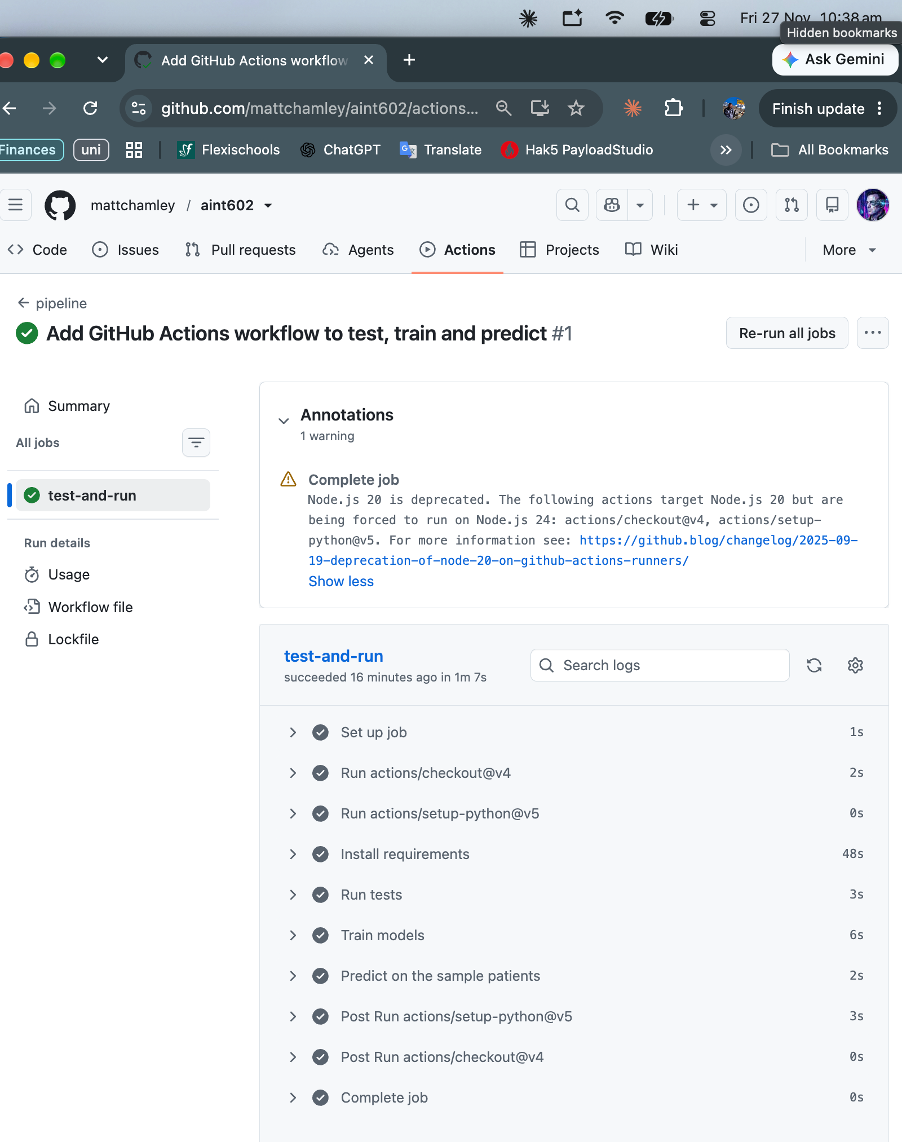
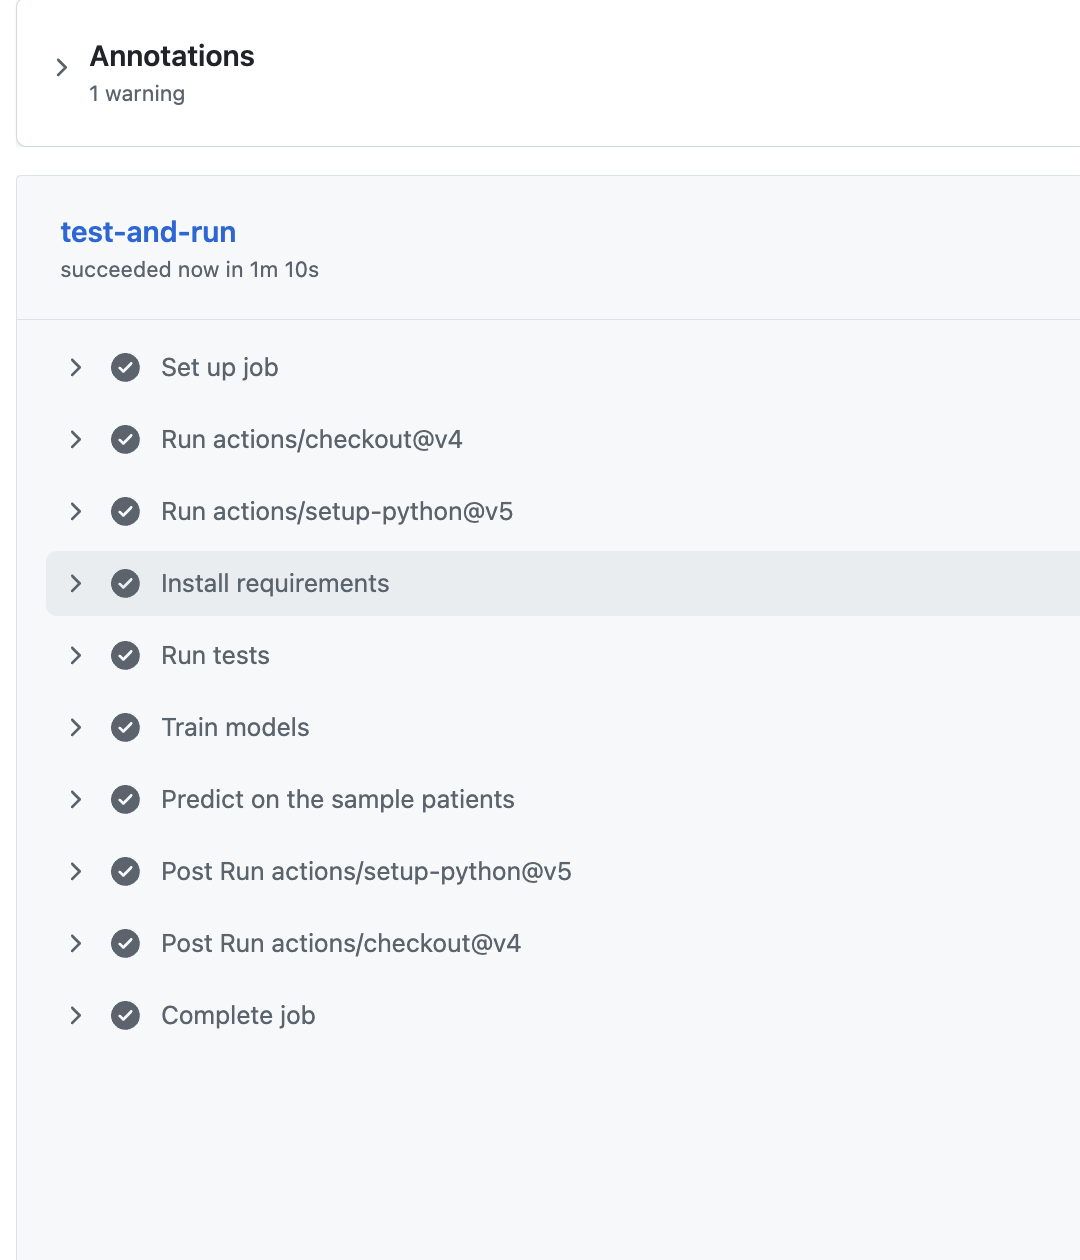
Replace evidence screenshots witht the final run and fix the index

diff --git a/evidence/README.md b/evidence/README.md
@@ -1,16 +1,22 @@
-# Evidence
+# Evidence Screen Shots
 
 Screenshots that back up the report. File names match the appendix numbers.
 
 | File | What it shows |
 |---|---|
 | 1a_ingest_check.png | Data loads: 10,000 rows, 14 columns, data hash |
-| 1b_validation_output.png | Validation checks and rows dropped |
-| 2_pytest_run.png | Tests passing |
-| 3_training_output.png | Baseline and candidate model results |
-| 4_mlflow_page.png | MLflow experiment runs |
+| 1b_validation_output.png | Validation checks: 136 rows dropped, 9,864 kept |
+| 1c_feature_test.png | Feature pipeline builds: 23 features |
+| 1d_evaluation_test.png | Baseline scores and confusion counts |
+| 2_pytest_run.png | All 26 tests passing |
+| 3a_baseline_output.png | Training start: validation report, split sizes, baseline scores |
+| 3b_model_comparison.png | Model comparison, selection and test scores |
+| 4a_mlflow_page.png | MLflow runs table |
 | 5_model_info.png | model_info.json (commit, data hash, run ID) |
-| 6_github_actions.png | Passing GitHub Actions run |
-| 7_prediction_output.png | Ranked queue and prediction log |
+| 6a_github_actions_summary.png | GitHub Actions run list with green tick |
+| 6b_github_actions_steps.png | Steps of the passing run |
+| 7a_prediction_output.png | Ranked queue and prediction log |
+| 7b_bad_input_refused.png | Bad input stops the run with an error |
 | 8_git_log.png | Commit history |
-| 9_group_results.png | Results by group and plots |
+| 9a_group_results.png | Results by sex and age band |
+| 9b_roc_plot.png | ROC curves for the three models (validation set) |
